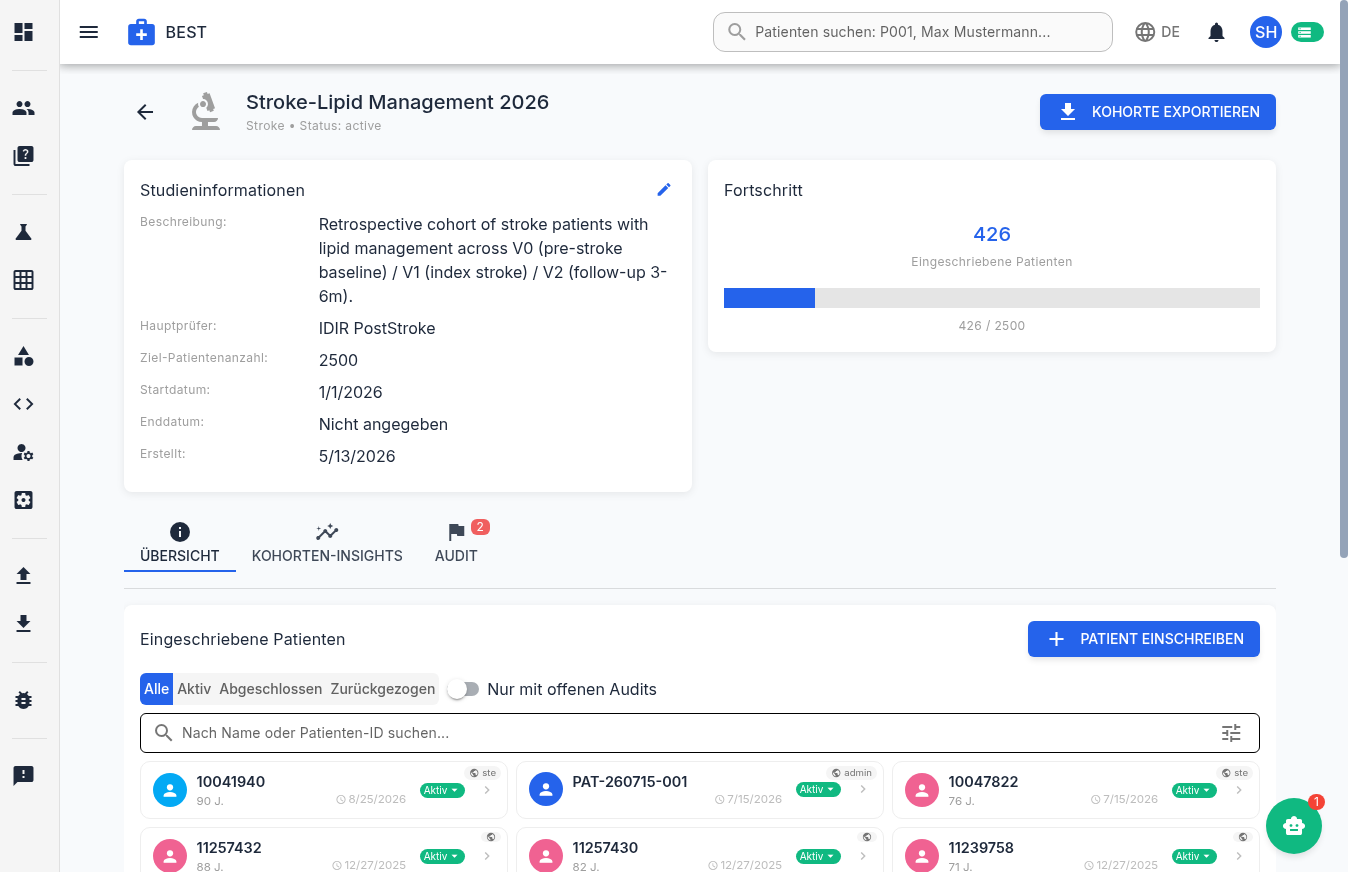
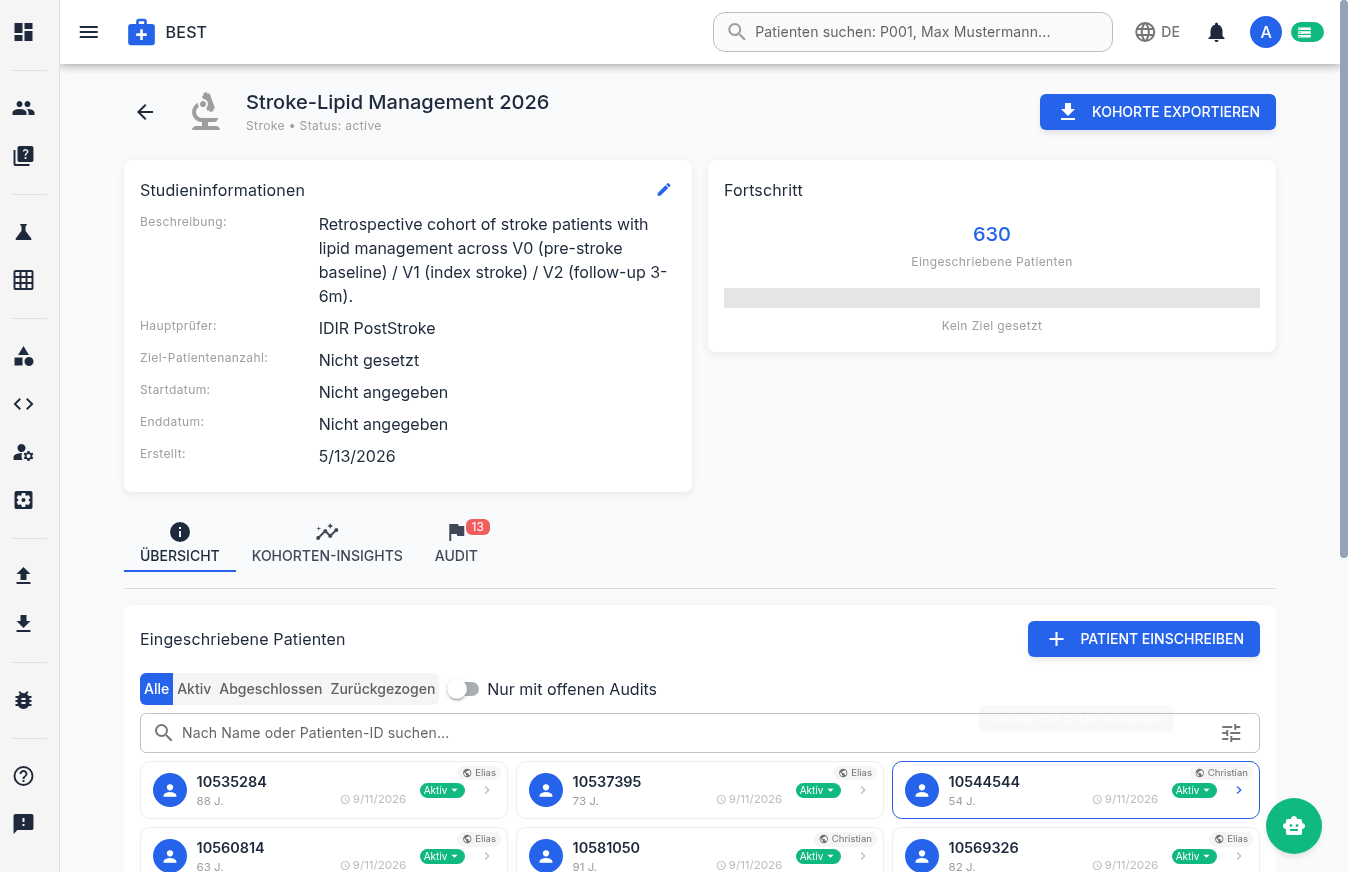
fix(nav): Zurück-Schleife nach Login-Redirect + tote Zurück-Buttons; Hilfe zu Audit/Studien/Datenmodell
- LoginPage: router.replace statt push beim Redirect — die Anmeldeseite
  bleibt nicht im Verlauf (Zurück-Pfeil in Visite/Grid führte sonst zu
  /login, das sofort wieder weiterleitete)
- shared/utils/navigation.js (goBackOr): Rückfallziel, wenn kein Verlauf,
  vorheriger Eintrag /login|/403 oder dieselbe Sektion; eingesetzt in
  VisitsPage, GridLayout, ChangelogPage, Error403
- HelpPage: neues Kapitel „Datenprüfung (Audit) & Kommentare“, Studien mit
  Unterabschnitten Kohorten-Insights + Audit-Tab, Datenmodell erweitert;
  Screenshots study-details/study-insights/visits-patient/audit-dialog
- package.json 0.7.0; Test 46_back-navigation

diff --git a/db/app2/src/pages/HelpPage.vue b/db/app2/src/pages/HelpPage.vue
@@ -130,10 +130,16 @@ const sections = [
       'Visite (Besuch): ein Kontakt/Termin des Patienten zu einem Datum, mit Visitentyp (z. B. Erstvorstellung, Verlaufskontrolle, Studienvisite V0/V1/V2). Der Visitentyp bestimmt, welche Eingabefelder angeboten werden.',
       'Beobachtung: ein einzelner Messwert oder Befund innerhalb einer Visite — z. B. ein Laborwert, ein Medikament mit Dosis, ein Ja/Nein-Befund oder ein Fragebogen-Score.',
       'Konzept: die standardisierte Definition einer Beobachtung (SNOMED CT, LOINC, ICD-10 oder eigene Codes). Konzepte sorgen dafür, dass „LDL-Cholesterin“ überall dasselbe bedeutet.',
-      'Studie: fasst Patienten zu einer Kohorte zusammen. Patienten werden eingeschrieben (Status: aktiv, abgeschlossen, zurückgezogen) und können studienspezifische Visiten erhalten.',
+      'Werttypen einer Beobachtung: Zahl (mit Einheit), Text, Datum, Ja/Nein-Befund, Auswahl aus einer Liste, Medikament (Wirkstoff, Dosis, Schema), Fragebogen und Datei (PDF/Bild/Video an einer Visite). Jede Beobachtung trägt ihr eigenes Datum — standardmäßig das der Visite, bei Bedarf abweichend (z. B. Laborabnahme an einem anderen Tag).',
+      'Drei Zustände bei Zahlenwerten: ein Wert = gemessen; „kein Wert“ (NV, ∅) = erfragt, aber bewusst kein Wert (etwa Medikament nicht eingenommen); gar keine Beobachtung = nicht erhoben. So bleibt „0“ von „unbekannt“ unterscheidbar.',
+      'Prüfmarkierung (Audit): Jede Beobachtung kann „zur Prüfung“ markiert (roter Rahmen) oder als „geprüft“ bestätigt (grüner Rahmen) werden — in der Datentabelle wie in der Zeitlinie. Zu jeder Beobachtung führt die App einen Prüfverlauf: wer wann markiert, bestätigt oder kommentiert hat und ob eine Wertänderung die Markierung zurückgesetzt hat. Details im Abschnitt „Datenprüfung (Audit)“.',
+      'Feldgruppen: Der Visitentyp verweist auf Feldgruppen (z. B. „Labor“, „Medikamente“), und jede Feldgruppe listet die Konzepte, die dort erfasst werden. Administratoren pflegen beides unter „Globale Einstellungen“ — neue Studienvisiten brauchen keine Programmierung.',
+      'Studie: fasst Patienten zu einer Kohorte zusammen. Patienten werden mit Einschlussdatum eingeschrieben (Status: aktiv, abgeschlossen, zurückgezogen) und können studienspezifische Visiten erhalten. Das Einschlussdatum ist die Basis für Zeitraum-Auswertungen in den Kohorten-Insights.',
       'Sichtbarkeit: Jeder Patient hat einen Besitzer (Ersteller). „Öffentliche“ Patienten sehen alle Nutzer, private nur der Besitzer und Administratoren. Löschen darf nur der Besitzer oder ein Admin.',
+      'Bearbeiter: Jede gespeicherte Beobachtung merkt sich den zuletzt bearbeitenden Benutzer; die Team-Aktivität in den Studien-Insights und die Audit-Übersicht bauen darauf auf.',
       'Rollen: Administratoren sehen zusätzlich die Bereiche Konzepte, CQL, Benutzerverwaltung, Globale Einstellungen und Datenbank-Test.',
     ],
+    tip: 'Alle Daten liegen in einer einzigen SQLite-Datei (Sternschema nach i2b2-Vorbild: Patient → Visite → Beobachtung, Konzepte als Dimension). Beim Öffnen einer älteren Datei aktualisiert die App das Schema automatisch — ein Backup vorab ist trotzdem gute Praxis.',
   },
   {
     id: 'login',
@@ -208,14 +214,50 @@ const sections = [
       {
         title: 'Studiendetails',
         paragraphs: [
-          'Die Detailseite einer Studie bündelt Stammdaten (bearbeitbar), Einschreibungs-Fortschritt und drei Tabs: „Übersicht“ mit der Patientenliste (Statusfilter, Bulk-Aktionen wie „Gefilterte als abgeschlossen markieren“, Sprung in den Datentabellen-Editor), „Insights“ mit Kohorten-Auswertungen und Team-Aktivität sowie „Audit“ mit offenen Datenprüfungen pro Patient und Nutzer (Sprung „Im Grid öffnen“ oder „Im Patientenbesuch öffnen“, jeweils mit aktivem Audit-Filter).',
-          'In den Insights zeigt die Karte „Visiten-Verlauf“ die Eingeschriebenen und je Visitentyp die Patienten mit dieser Visite; die Felder „von/bis“ im Kartenkopf grenzen auf einen Einschluss-Zeitraum ein (z. B. vor und ab 15.09.2025 getrennt). Darunter zählt das Balkendiagramm „Einschlüsse pro Monat“ die neu eingeschlossenen Patienten seit dem ersten Einschluss; Monate außerhalb des gewählten Zeitraums erscheinen grau.',
-          'Patienten schreiben Sie über das Rechtsklick-Menü einer Patientenkarte („Studie zuordnen“) oder direkt auf der Studienseite ein. Der Einschreibestatus (aktiv/abgeschlossen/zurückgezogen) lässt sich am Status-Chip jeder Patientenkarte umschalten. Der Kohorten-Export (CSV oder HL7-JSON) liegt oben rechts.',
+          'Die Detailseite einer Studie bündelt Stammdaten (bearbeitbar), Einschreibungs-Fortschritt und drei Tabs: „Übersicht“ mit der Patientenliste, „Kohorten-Insights“ mit Auswertungen und „Audit“ mit den offenen Datenprüfungen.',
+          'Patienten schreiben Sie über das Rechtsklick-Menü einer Patientenkarte („Studie zuordnen“) oder direkt auf der Studienseite ein. Der Einschreibestatus (aktiv/abgeschlossen/zurückgezogen) lässt sich am Status-Chip jeder Patientenkarte umschalten; „Gefilterte als abgeschlossen markieren“ erledigt das für eine ganze Auswahl. Der Kohorten-Export (CSV oder HL7-JSON) liegt oben rechts, der Sprung in den Datentabellen-Editor öffnet die ausgewählten Patienten direkt dort.',
         ],
         image: 'study-details',
       },
+      {
+        title: 'Kohorten-Insights',
+        paragraphs: [
+          'Der Tab fasst die Kohorte in Karten zusammen: „Visiten-Verlauf“ (Eingeschriebene und je Visitentyp die Patienten, die diese Visite haben), „Medikamenten-Nutzung“ (nehmen / erfragt), „Komorbiditäten“, die Auswahlverteilungen (Ätiologie, Event-Typ), „Team-Aktivität“ (Patienten und Beobachtungen pro Benutzer) und „Lab-Verlauf“ (Median je Visite).',
+        ],
+        bullets: [
+          'Einschluss-Zeitraum: Die Felder „von/bis“ im Kopf des Visiten-Verlaufs grenzen die Kacheln auf Patienten ein, die in diesem Zeitraum eingeschlossen wurden — die Visiten zählen unabhängig vom Visitendatum. So lassen sich Teilkohorten getrennt betrachten, z. B. „bis 14.09.2025“ und „ab 15.09.2025“. Der Filter bleibt beim Tab-Wechsel erhalten; das × setzt ihn zurück.',
+          'Einschlüsse pro Monat: Das Balkendiagramm zählt die neu eingeschlossenen Patienten je Kalendermonat vom ersten Einschluss bis heute (Lücken als Nullmonate). Die Kennzahlenzeile nennt Gesamt, Durchschnitt pro Monat, die letzten 12 Monate und den stärksten Monat; beim Überfahren zeigt jeder Balken Monat, Anzahl und kumulierten Stand. Bei aktivem Zeitraum-Filter erscheinen Monate außerhalb grau.',
+          'Die Zahlen berücksichtigen nur aktive und abgeschlossene Einschreibungen; zurückgezogene Patienten zählen nicht mit.',
+        ],
+        image: 'study-insights',
+      },
+      {
+        title: 'Audit-Tab',
+        paragraphs: [
+          'Der Tab „Audit“ zeigt die offenen Prüfmarkierungen der Kohorte: Gesamtzahl, Verteilung pro Benutzer und eine Liste pro Patient mit Anzahl. Von dort springen Sie mit „Im Grid öffnen“ in den Datentabellen-Editor oder mit „Im Patientenbesuch öffnen“ in die Zeitlinie des Patienten — in beiden Fällen ist der Filter „Nur offene Audits“ bereits aktiv, sodass nur die zu prüfenden Werte sichtbar sind. Das Badge am Tab und auf der Studienkarte zählt die offenen Prüfungen.',
+        ],
+      },
     ],
     tip: 'Die App merkt sich Ihre zuletzt geöffnete Studie: Wer „Studien“ in der Seitenleiste wählt, landet direkt wieder in ihr. Der Zurück-Pfeil in der Studie führt zur Studienliste.',
+  },
+  {
+    id: 'audit',
+    icon: 'flag',
+    title: 'Datenprüfung (Audit) & Kommentare',
+    paragraphs: [
+      'Die Prüfmarkierung ist das Werkzeug für die Datenqualität im Team: Wer einen Wert für fragwürdig hält, markiert ihn „zur Prüfung“; wer ihn geprüft hat, bestätigt ihn. Der Wert selbst bleibt dabei unverändert. Markierungen sind überall sichtbar, wo der Wert erscheint — Datentabelle, Zeitlinie, Studienseite und Dashboard — und lassen sich an jeder dieser Stellen setzen.',
+    ],
+    bullets: [
+      'Zustände: roter Rahmen mit Flagge = „zur Prüfung markiert“ (offen); grüner Rahmen mit Häkchen = „geprüft“. „Prüfmarkierung entfernen“ nimmt beides zurück.',
+      'Setzen und auflösen: in der Datentabelle per Rechtsklick auf die Zelle; in der Zeitlinie per Rechtsklick auf eine Kachel oder über das Flaggen-Symbol im Feldkopf während der Bearbeitung. Beim Auflösen wechselt die Markierung von rot auf grün.',
+      'Kommentare und Verlauf: „Prüfung & Kommentare …“ (im Kontextmenü, oder ein Klick auf das Flaggen-Eck einer Kachel) öffnet den Dialog zur Beobachtung. Oben stehen Konzept, Wert und Zustand, darunter der Verlauf: jede Markierung, Bestätigung, Entfernung und jeder Kommentar mit Autor und Zeitpunkt. Ein eingetippter Kommentar wird an die gewählte Aktion angehängt; „Kommentar hinzufügen“ speichert ihn ohne Zustandswechsel (Strg+Enter). Eigene Kommentare lassen sich löschen, Administratoren dürfen alle löschen.',
+      'Kommentar-Zähler: Kacheln mit Kommentaren zeigen neben der Flagge die Anzahl; die Kontextmenüs nennen sie ebenfalls.',
+      'Wertänderung: Wird ein markierter Wert geändert, setzt die App die Markierung zurück — der Prüfverlauf hält das als „Markierung durch Wertänderung zurückgesetzt“ fest, damit nachvollziehbar bleibt, warum eine Flagge verschwunden ist. Soll der Wert erneut geprüft werden, markieren Sie ihn wieder.',
+      'Filter: Der Chip „N Audits offen“ (Fußzeile der Datentabelle bzw. Kopf der Zeitlinie) blendet alles außer den offenen Prüfungen aus. In der Zeitlinie zeigt jede Visitenkarte zusätzlich ihren Zähler, ebenso die Schnellnavigation links.',
+      'Löschen: Wird eine Beobachtung gelöscht, verschwindet ihr Prüfverlauf mit ihr.',
+    ],
+    image: 'audit-dialog',
+    tip: 'Typischer Ablauf: markieren mit kurzem Kommentar („Wert unplausibel, bitte Laborbefund prüfen“) → Kollege korrigiert oder antwortet im Dialog → Prüfung auflösen. Der Studien-Tab „Audit“ zeigt jederzeit, wo noch etwas offen ist.',
   },
   {
     id: 'datagrid',
@@ -233,7 +275,7 @@ const sections = [
         ],
         bullets: [
           'Visitentyp-Sperre (Kalender-Schloss-Symbol neben dem Zoom): blendet Zellen aus, deren Konzept nicht zum Visitentyp der Zeile gehört — schraffierte Zellen sind gesperrt, vorhandene Werte bleiben sichtbar.',
-          'Rechtsklick auf eine Zelle: Wert löschen, „kein Wert“ (NV) setzen, Audit-Markierung (roter Rahmen = zu prüfen, grüner Rahmen = geprüft), Beobachtungsdatum abweichend von der Visite setzen.',
+          'Rechtsklick auf eine Zelle: Wert löschen, „kein Wert“ (NV) setzen, Audit-Markierung (roter Rahmen = zu prüfen, grüner Rahmen = geprüft), „Prüfung & Kommentare …“ (Verlauf und Kommentare zur Beobachtung), Beobachtungsdatum abweichend von der Visite setzen.',
           'Fußzeile: Speicherstatus, Spalten-/Zellstatistik, „% ausgefüllt“ und der Audit-Chip — ein Klick darauf filtert die Ansicht auf offene Audits.',
           '„Hinzufügen“ in der Kopfzeile ergänzt Spalten (Konzepte), Visiten oder Patienten, ohne den Editor zu verlassen.',
         ],

diff --git a/db/app2/tests/unit/46_back-navigation.test.js b/db/app2/tests/unit/46_back-navigation.test.js
@@ -1,0 +1,63 @@
+/**
+ * Back navigation must always have a way out (shared/utils/navigation.js).
+ * Regression for "lande auf einer Unterseite und komme nicht mehr zurück":
+ * after a session timeout the guard sends the user to /login?redirect=…,
+ * the login page forwards to the sub-page, and "back" bounced to the login
+ * page which forwarded again — an endless loop. Deep links / restarts on a
+ * sub-page had no history entry at all.
+ */
+import { describe, it, expect, vi } from 'vitest'
+import { resolveBackTarget, goBackOr } from '../../src/shared/utils/navigation.js'
+
+describe('resolveBackTarget', () => {
+  it('goes back to a real previous page', () => {
+    expect(resolveBackTarget({ back: '/dashboard', fallback: '/visits', samePrefixes: ['/visits'] })).toEqual({ action: 'back' })
+    expect(resolveBackTarget({ back: '/studies/4', fallback: '/visits', samePrefixes: ['/visits'] })).toEqual({ action: 'back' })
+  })
+
+  it('falls back when there is no history', () => {
+    expect(resolveBackTarget({ back: null, fallback: '/visits' })).toEqual({ action: 'push', to: '/visits' })
+    expect(resolveBackTarget({ back: undefined, fallback: '/dashboard' })).toEqual({ action: 'push', to: '/dashboard' })
+    expect(resolveBackTarget({ back: '', fallback: '/dashboard' })).toEqual({ action: 'push', to: '/dashboard' })
+  })
+
+  it('never returns to login / 403 (they redirect forward again)', () => {
+    expect(resolveBackTarget({ back: '/login?redirect=/visits/1', fallback: '/visits' })).toEqual({ action: 'push', to: '/visits' })
+    expect(resolveBackTarget({ back: '/login', fallback: '/visits' })).toEqual({ action: 'push', to: '/visits' })
+    expect(resolveBackTarget({ back: '/403?message=x', fallback: '/dashboard' })).toEqual({ action: 'push', to: '/dashboard' })
+    // but a route that merely starts with the same letters is fine
+    expect(resolveBackTarget({ back: '/logins-report', fallback: '/x' })).toEqual({ action: 'back' })
+  })
+
+  it('leaves the section instead of shuffling between its sub-pages', () => {
+    expect(resolveBackTarget({ back: '/visits/10002506', fallback: '/visits', samePrefixes: ['/visits'] })).toEqual({ action: 'push', to: '/visits' })
+    expect(resolveBackTarget({ back: '/visits', fallback: '/visits', samePrefixes: ['/visits'] })).toEqual({ action: 'push', to: '/visits' })
+    expect(resolveBackTarget({ back: '/data-grid/editor', fallback: '/data-grid', samePrefixes: ['/data-grid'] })).toEqual({ action: 'push', to: '/data-grid' })
+  })
+})
+
+describe('goBackOr', () => {
+  const makeRouter = (back) => ({ options: { history: { state: { back } } }, back: vi.fn(), push: vi.fn() })
+
+  it('calls router.back() for a real previous page', () => {
+    const router = makeRouter('/dashboard')
+    goBackOr(router, '/visits', ['/visits'])
+    expect(router.back).toHaveBeenCalled()
+    expect(router.push).not.toHaveBeenCalled()
+  })
+
+  it('pushes the fallback for login / no history / same section', () => {
+    for (const back of ['/login?redirect=/visits/1', null, '/visits/1']) {
+      const router = makeRouter(back)
+      goBackOr(router, '/visits', ['/visits'])
+      expect(router.back).not.toHaveBeenCalled()
+      expect(router.push).toHaveBeenCalledWith('/visits')
+    }
+  })
+
+  it('tolerates a router without history state', () => {
+    const router = { options: {}, back: vi.fn(), push: vi.fn() }
+    goBackOr(router, '/dashboard')
+    expect(router.push).toHaveBeenCalledWith('/dashboard')
+  })
+})

diff --git a/db/app2/src/shared/utils/navigation.js b/db/app2/src/shared/utils/navigation.js
@@ -1,0 +1,42 @@
+/**
+ * Back navigation with a guaranteed way out.
+ *
+ * `router.back()` alone dead-ends in two situations we hit in the app:
+ *   - no history entry (deep link, app restart on a sub-page)
+ *   - the previous entry is a page that immediately redirects forward again
+ *     (login with ?redirect=…, 403) — pressing "back" bounces the user
+ *     straight back to where they were, an endless loop
+ * `goBackOr()` falls back to an explicit route in both cases (and when the
+ * previous entry belongs to the same section, where "back" would merely
+ * shuffle between sub-pages).
+ */
+
+// Pages that forward the user somewhere else — never "return" to them
+export const NON_RETURNABLE_PREFIXES = ['/login', '/403', '/public']
+
+/**
+ * Pure decision: where should "back" go?
+ * @param {{back: string|null|undefined, fallback: string, samePrefixes?: string[]}} opts
+ * @returns {{action: 'back'} | {action: 'push', to: string}}
+ */
+export function resolveBackTarget({ back, fallback, samePrefixes = [] }) {
+  const target = back == null ? '' : String(back)
+  const matches = (prefix) => target === prefix || target.startsWith(prefix + '/') || target.startsWith(prefix + '?') || target.startsWith(prefix + '#')
+  if (!target) return { action: 'push', to: fallback }
+  if (NON_RETURNABLE_PREFIXES.some(matches)) return { action: 'push', to: fallback }
+  if (samePrefixes.some(matches)) return { action: 'push', to: fallback }
+  return { action: 'back' }
+}
+
+/**
+ * Go back if the previous history entry is a real page; otherwise navigate
+ * to `fallback`. `samePrefixes` lists route prefixes of the current section
+ * (e.g. ['/visits']) — "back" into the same section is replaced by the
+ * fallback so the user leaves the section with one click.
+ */
+export function goBackOr(router, fallback, samePrefixes = []) {
+  const back = router?.options?.history?.state?.back ?? null
+  const target = resolveBackTarget({ back, fallback, samePrefixes })
+  if (target.action === 'back') return router.back()
+  return router.push(target.to)
+}

diff --git a/db/app2/src/pages/VisitsPage.vue b/db/app2/src/pages/VisitsPage.vue
@@ -65,6 +65,7 @@
 
 <script setup>
 import { ref, computed, onMounted, watch } from 'vue'
+import { goBackOr } from 'src/shared/utils/navigation.js'
 import { useRoute, useRouter } from 'vue-router'
 import { usePatientStore } from 'src/stores/patient-store'
 import { useVisitStore } from 'src/stores/visit-store'
@@ -126,13 +127,9 @@ const deselectPatient = () => {
   visitObservationService.clearAllData()
   viewMode.value = 'unified'
   // Go back to where the user came from (e.g. a study's enrolled-patients
-  // list or the dashboard); default to the visits patient list.
-  const previous = router.options.history.state?.back
-  if (previous && !String(previous).startsWith('/visits')) {
-    router.back()
-  } else {
-    router.push('/visits')
-  }
+  // list or the dashboard); default to the visits patient list. Never
+  // "back" into login/403 (they redirect forward again → loop).
+  goBackOr(router, '/visits', ['/visits'])
 }
 
 const showPatientData = () => {

diff --git a/db/app2/src/layouts/GridLayout.vue b/db/app2/src/layouts/GridLayout.vue
@@ -37,6 +37,7 @@
 
 <script setup>
 import { computed } from 'vue'
+import { goBackOr } from 'src/shared/utils/navigation.js'
 import { useRouter } from 'vue-router'
 import { useQuasar } from 'quasar'
 import { useI18n } from 'vue-i18n'
@@ -67,14 +68,7 @@ const gridInfo = computed(() => {
 const exitDataGrid = () => {
   // Go back to where the editor was opened from (e.g. a patient card's
   // context menu on the dashboard); default: the grid's patient selection.
-  const navigateBack = () => {
-    const previous = router.options.history.state?.back
-    if (previous && !String(previous).startsWith('/data-grid')) {
-      router.back()
-    } else {
-      router.push('/data-grid')
-    }
-  }
+  const navigateBack = () => goBackOr(router, '/data-grid', ['/data-grid'])
 
   // Check if there are unsaved changes
   if (dataGridStore?.hasUnsavedChanges) {

diff --git a/db/app2/src/pages/ChangelogPage.vue b/db/app2/src/pages/ChangelogPage.vue
@@ -45,7 +45,7 @@
           :label="$t('common.back')"
           icon="arrow_back"
           class="changelog-back-btn"
-          @click="$router.back()"
+          @click="goBack"
         />
       </div>
     </q-page-sticky>
@@ -53,6 +53,14 @@
 </template>
 
 <script setup>
+import { useRouter } from 'vue-router'
+import { useAuthStore } from 'src/stores/auth-store'
+import { goBackOr } from 'src/shared/utils/navigation.js'
+
+const router = useRouter()
+const authStore = useAuthStore()
+// No history (deep link / restart on this page) → dashboard or login
+const goBack = () => goBackOr(router, authStore.isAuthenticated ? '/dashboard' : '/login', ['/changelog'])
 import { ref, onMounted } from 'vue'
 // Bundle the repo-root CHANGELOG at build time — single source of truth.
 // (The old fetch('/CHANGELOG.md') served a stale, long-dead copy from

diff --git a/db/app2/src/pages/Error403.vue b/db/app2/src/pages/Error403.vue
@@ -14,7 +14,7 @@
       <div class="q-gutter-sm">
         <q-btn color="primary" unelevated :label="$t('navigation.dashboard')" icon="dashboard" to="/dashboard" />
 
-        <q-btn outline color="primary" :label="$t('common.goBack')" icon="arrow_back" @click="$router.go(-1)" />
+        <q-btn outline color="primary" :label="$t('common.goBack')" icon="arrow_back" @click="goBack" />
       </div>
     </div>
   </q-page>
@@ -22,11 +22,15 @@
 
 <script setup>
 import { computed } from 'vue'
-import { useRoute } from 'vue-router'
+import { useRoute, useRouter } from 'vue-router'
+import { goBackOr } from 'src/shared/utils/navigation.js'
 
 defineOptions({
   name: 'ErrorForbidden',
 })
+
+const router = useRouter()
+const goBack = () => goBackOr(router, '/dashboard', ['/403'])
 
 const route = useRoute()
 

diff --git a/db/app2/src/pages/LoginPage.vue b/db/app2/src/pages/LoginPage.vue
@@ -321,7 +321,9 @@ onMounted(async () => {
   if (authStore.isAuthenticated) {
     const redirect = route.query.redirect || '/dashboard'
     logger.info('User already authenticated, redirecting', { redirect })
-    router.push(redirect)
+    // replace: the login page must not remain in history (back → login →
+    // redirect → back … loop)
+    router.replace(redirect)
   }
 
   // Set default database
@@ -376,7 +378,7 @@ const onLogin = async () => {
     // Redirect to intended page or dashboard
     const redirect = route.query.redirect || '/dashboard'
     logger.logNavigation('/login', redirect, 'redirect')
-    router.push(redirect)
+    router.replace(redirect)
   } catch (error) {
     timer.end()
     logger.error('Login form error', error, {

diff --git a/db/app2/CHANGELOG.md b/db/app2/CHANGELOG.md
@@ -7,6 +7,37 @@ and this project adheres to [Semantic Versioning](https://semver.org/spec/v2.0.0
 
 ## [Unreleased]
 
+### Fixed
+
+- **Navigation: „Ich lande auf einer Unterseite und komme nicht mehr
+  zurück“** — reproduziert und behoben. Zwei Ursachen:
+  - Nach einem Sitzungs-Timeout schickt der Router-Guard zur Anmeldung
+    (`/login?redirect=…`); die Anmeldeseite legte das Ziel per `push` auf den
+    Verlauf. Der Zurück-Pfeil in der Patientenvisite / im Grid-Editor führte
+    damit zur Anmeldeseite, die sofort wieder auf die Unterseite
+    weiterleitete — eine Schleife. Die Anmeldeseite nutzt jetzt
+    `router.replace`, sodass sie nie im Verlauf bleibt.
+  - Changelog-Seite und 403-Seite riefen `router.back()` ohne Rückfall —
+    ohne Verlaufseintrag (Deep-Link, Neustart auf der Seite) passierte nichts.
+  - Neuer Helfer `shared/utils/navigation.js` (`goBackOr`): geht nur zurück,
+    wenn der vorherige Eintrag eine echte Seite ist (nie `/login`, `/403`,
+    nie in dieselbe Sektion), sonst explizites Ziel — in Patientenvisite
+    (`/visits`), Grid-Editor (`/data-grid`), Changelog (Dashboard bzw.
+    Login) und 403 (Dashboard). Test `tests/unit/46_back-navigation.test.js`.
+
+### Changed
+
+- **In-App-Hilfe ausgebaut**: neues Kapitel „Datenprüfung (Audit) &
+  Kommentare“ (Zustände, Setzen/Auflösen, Dialog mit Verlauf und
+  Kommentaren, Wertänderung, Filter), Studien-Kapitel mit eigenen
+  Unterabschnitten „Kohorten-Insights“ (Zeitraum-Filter, Einschlüsse pro
+  Monat) und „Audit-Tab“, Datenmodell-Kapitel um Werttypen, Drei-Zustands-
+  Logik, Prüfmarkierung/Verlauf, Feldgruppen, Einschlussdatum und Bearbeiter
+  ergänzt. Screenshots `study-details`, `study-insights` (neu),
+  `visits-patient`, `audit-dialog` (neu) mit der Demo-DB aufgenommen.
+- `package.json`-Version auf 0.7.0 angehoben (Fallback; die Release-Version
+  bleibt in `.env`).
+
 ## [0.7_20260915] - 2026-09-15
 
 ### Added
